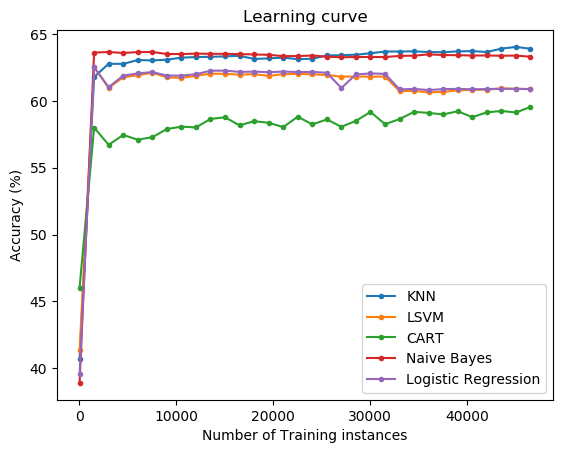
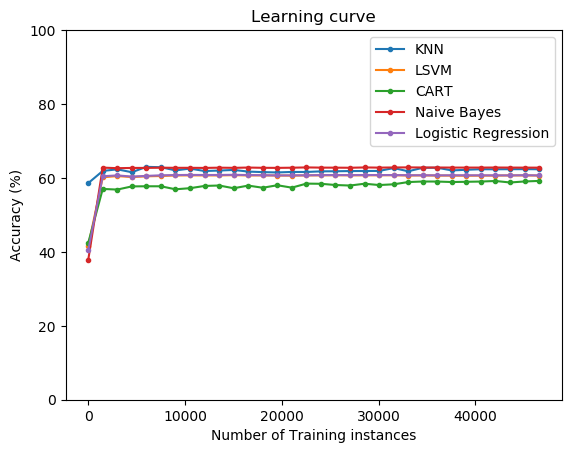
running learning curves with set axes

diff --git a/Classification/LearningCurves.py b/Classification/LearningCurves.py
@@ -80,6 +80,8 @@ def main():
     pyplot.ylabel('Accuracy (%)')
     # show the legend
     pyplot.legend()
+    axes = pyplot.gca()
+    axes.set_ylim([0, 100])
     pyplot.savefig('learningCurve.png', bbox_inches='tight')
     # show the plot
     pyplot.show()
